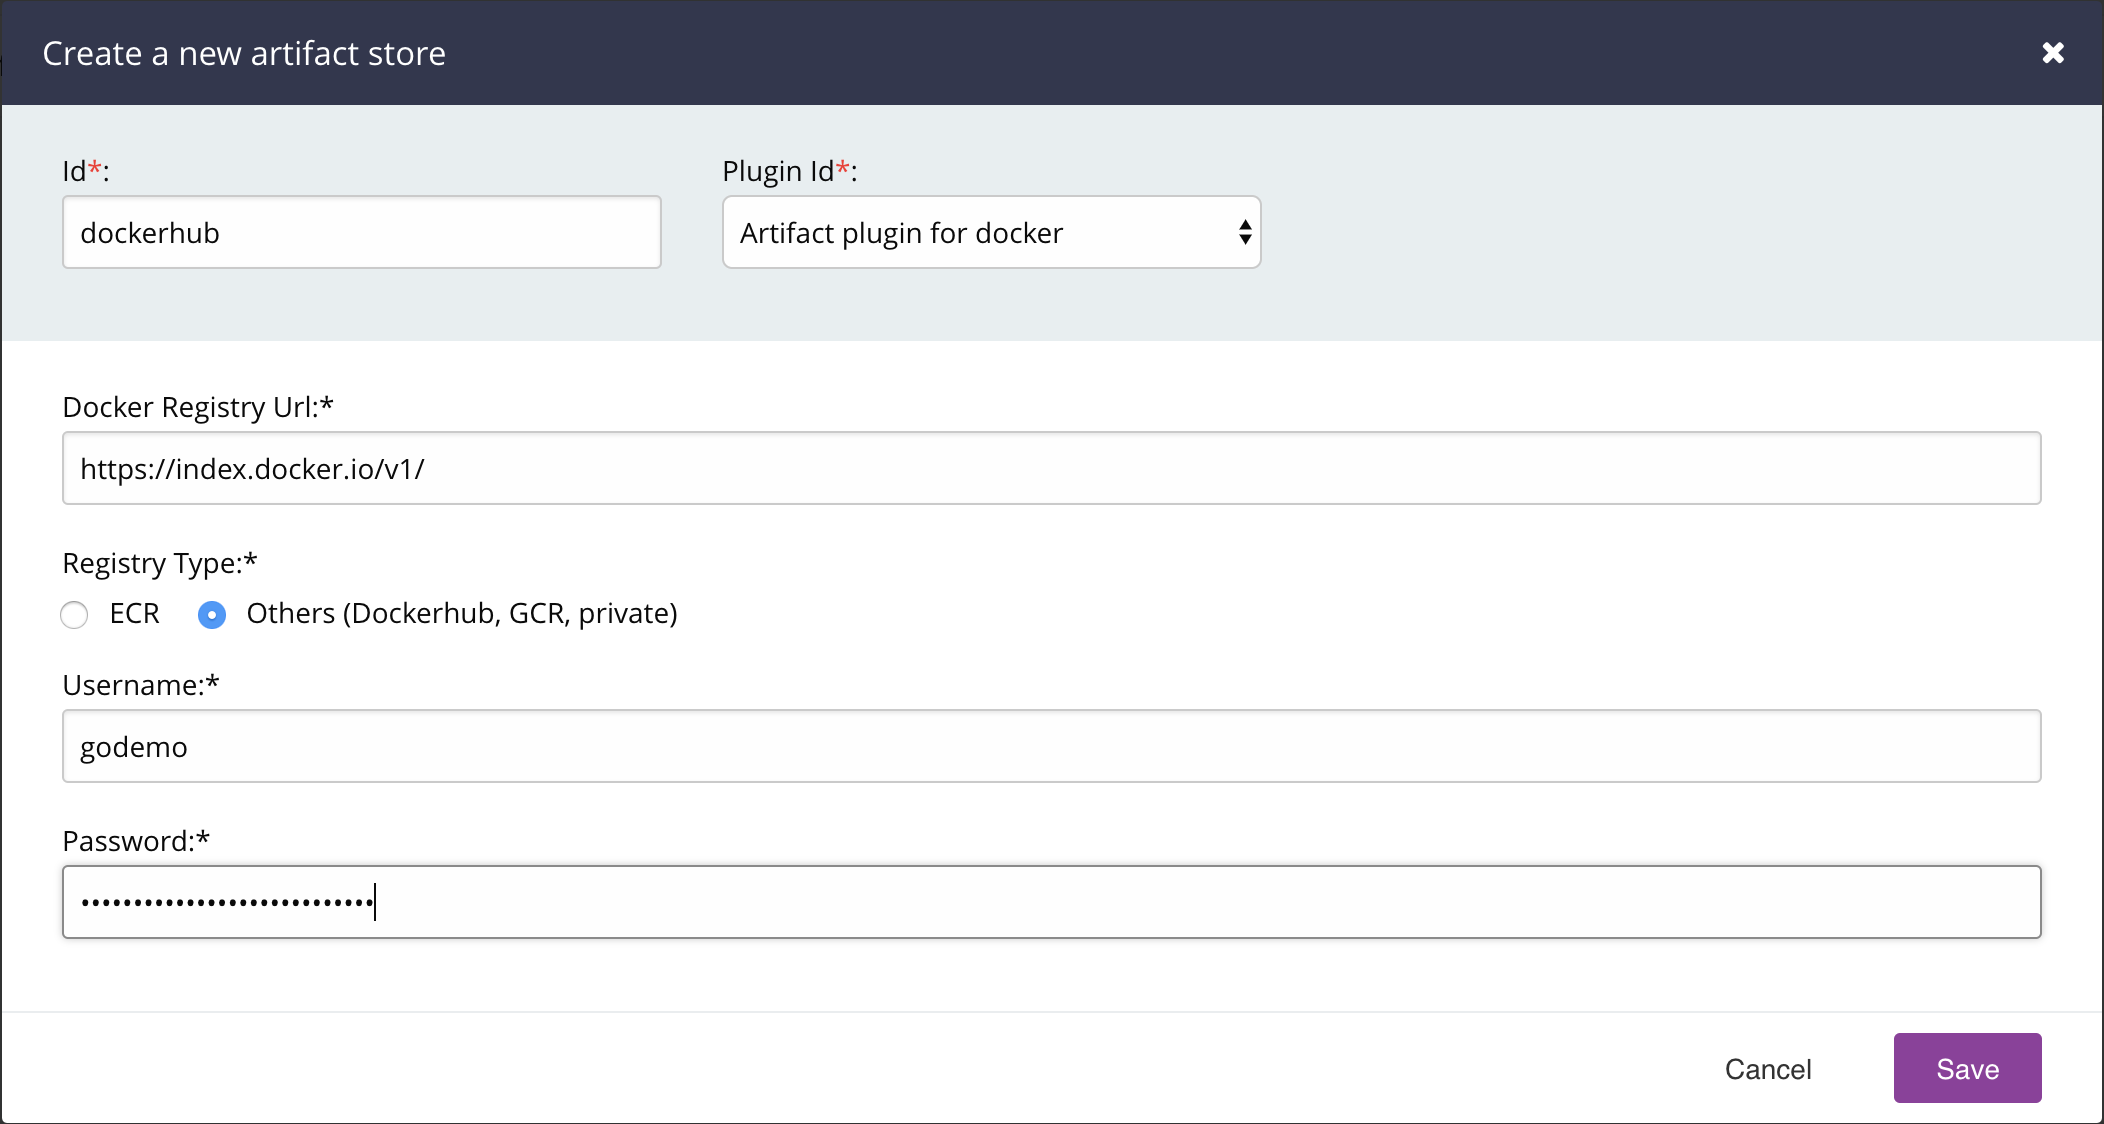
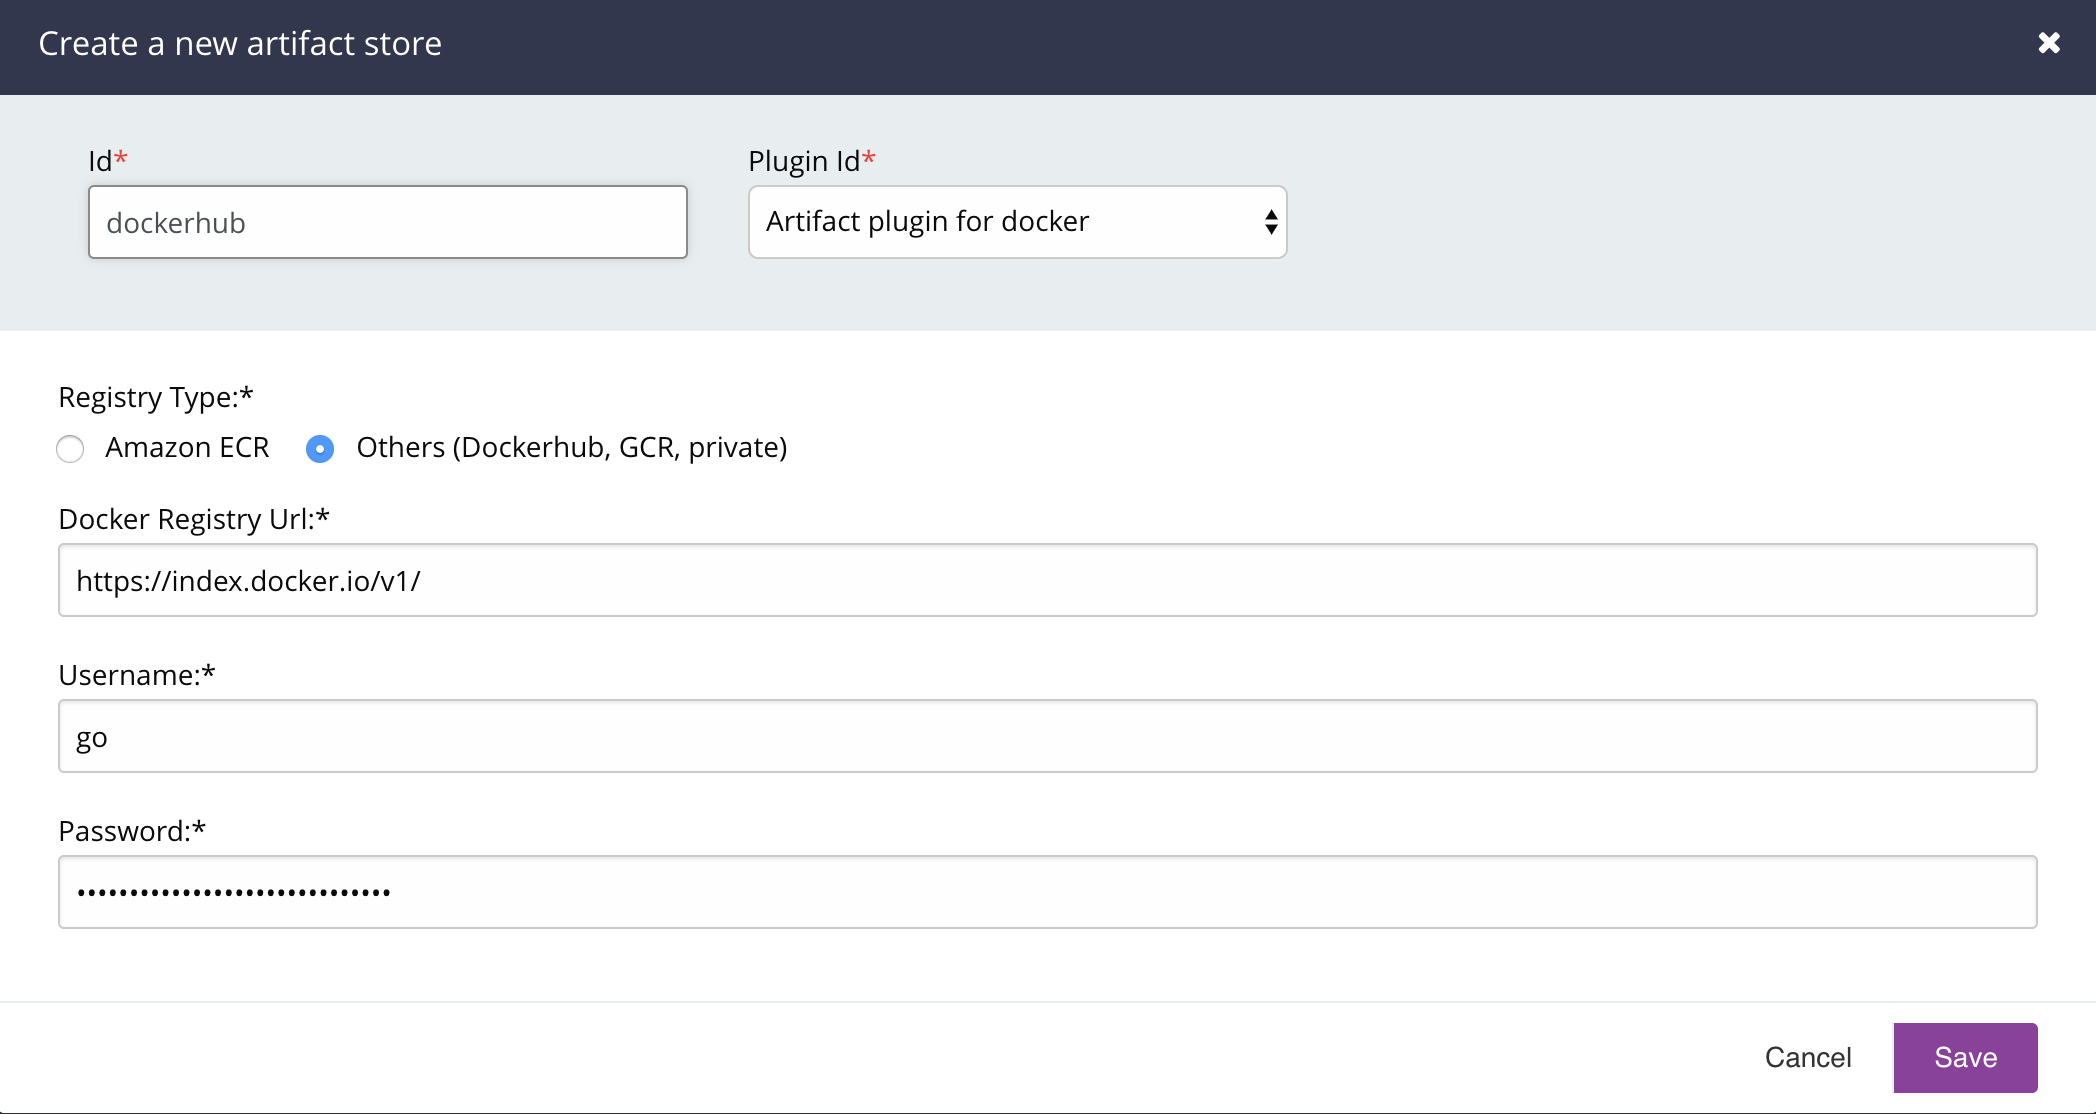
Introduce property RegistryID for amazon ecr.

diff --git a/src/main/resources/artifact-store.template.html b/src/main/resources/artifact-store.template.html
@@ -1,10 +1,4 @@
-<div class="form_item_block">
-    <label ng-class="{'is-invalid-label': GOINPUTNAME[RegistryURL].$error.server}">Docker Registry Url:<span class='asterix'>*</span></label>
-    <input ng-class="{'is-invalid-input': GOINPUTNAME[RegistryURL].$error.server}" type="text" ng-model="RegistryURL" ng-required="true" placeholder="value"/>
-    <span class="form_error form-error" ng-class="{'is-visible': GOINPUTNAME[RegistryURL].$error.server}" ng-show="GOINPUTNAME[RegistryURL].$error.server">{{GOINPUTNAME[RegistryURL].$error.server}}</span>
-</div>
-
-<div class="form_item_block">
+<div class="form_item_block" ng-init="RegistryType = 'ecr'">
     <label>Registry Type:<span class='asterix'>*</span></label>
     <input ng-class="{'is-invalid-input': GOINPUTNAME[RegistryType].$error.server}" type="radio" ng-model="RegistryType" value="ecr"/>
     <label ng-class="{'is-invalid-label': GOINPUTNAME[RegistryType].$error.server}">Amazon ECR</label>
@@ -15,6 +9,12 @@
 </div>
 
 <div ng-show="RegistryType == 'ecr'">
+    <div class="form_item_block">
+        <label ng-class="{'is-invalid-label': GOINPUTNAME[RegistryID].$error.server}">ECR Registry ID:<span class='asterix'>*</span></label>
+        <input ng-class="{'is-invalid-input': GOINPUTNAME[RegistryID].$error.server}" type="text" ng-model="RegistryID" ng-required="true" placeholder="value"/>
+        <span class="form_error form-error" ng-class="{'is-visible': GOINPUTNAME[RegistryID].$error.server}" ng-show="GOINPUTNAME[RegistryID].$error.server">{{GOINPUTNAME[RegistryID].$error.server}}</span>
+    </div>
+
     <div class="form_item_block">
         <label ng-class="{'is-invalid-label': GOINPUTNAME[AWSRegion].$error.server}">AWS Region:<span class='asterix'>*</span></label>
         <input ng-class="{'is-invalid-input': GOINPUTNAME[AWSRegion].$error.server}" type="text" ng-model="AWSRegion" ng-required="true" placeholder="value"/>
@@ -35,6 +35,13 @@
 </div>
 
 <div ng-show="RegistryType == 'other'">
+
+    <div class="form_item_block">
+        <label ng-class="{'is-invalid-label': GOINPUTNAME[RegistryURL].$error.server}">Docker Registry Url:<span class='asterix'>*</span></label>
+        <input ng-class="{'is-invalid-input': GOINPUTNAME[RegistryURL].$error.server}" type="text" ng-model="RegistryURL" ng-required="true" placeholder="value"/>
+        <span class="form_error form-error" ng-class="{'is-visible': GOINPUTNAME[RegistryURL].$error.server}" ng-show="GOINPUTNAME[RegistryURL].$error.server">{{GOINPUTNAME[RegistryURL].$error.server}}</span>
+    </div>
+
     <div class="form_item_block">
         <label ng-class="{'is-invalid-label': GOINPUTNAME[Username].$error.server}">Username:<span class='asterix'>*</span></label>
         <input ng-class="{'is-invalid-input': GOINPUTNAME[Username].$error.server}" type="text" ng-model="Username" ng-required="true" placeholder="value"/>

diff --git a/src/main/java/cd/go/artifact/docker/registry/model/ArtifactStoreConfig.java b/src/main/java/cd/go/artifact/docker/registry/model/ArtifactStoreConfig.java
@@ -26,14 +26,19 @@ import org.apache.commons.lang.StringUtils;
 
 public class ArtifactStoreConfig implements Validatable {
     @Expose
-    @SerializedName("RegistryURL")
-    @FieldMetadata(key = "RegistryURL", required = true)
-    private String registryUrl;
-
-    @Expose
     @SerializedName("RegistryType")
     @FieldMetadata(key = "RegistryType", required = true)
     private String registryType;
+
+    @Expose
+    @SerializedName("RegistryURL")
+    @FieldMetadata(key = "RegistryURL", required = false)
+    private String registryUrl;
+
+    @Expose
+    @SerializedName("RegistryID")
+    @FieldMetadata(key = "RegistryID", required = false)
+    private String registryId;
 
     @Expose
     @SerializedName("AWSAccessKeyId")
@@ -63,19 +68,20 @@ public class ArtifactStoreConfig implements Validatable {
     public ArtifactStoreConfig() {
     }
 
-    public ArtifactStoreConfig(String registryUrl, String registryType) {
-        this.registryUrl = registryUrl;
+    public ArtifactStoreConfig(String registryType) {
         this.registryType = registryType;
     }
 
     public ArtifactStoreConfig(String registryUrl, String registryType, String username, String password) {
-        this(registryUrl, registryType);
+        this(registryType);
+        this.registryUrl = registryUrl;
         this.username = username;
         this.password = password;
     }
 
-    public ArtifactStoreConfig(String registryUrl, String registryType, String awsAccessKeyId, String awsSecretAccessKey, String awsRegion) {
-        this(registryUrl, registryType);
+    public ArtifactStoreConfig(String registryId, String registryType, String awsAccessKeyId, String awsSecretAccessKey, String awsRegion) {
+        this(registryType);
+        this.registryId = registryId;
         this.awsAccessKeyId = awsAccessKeyId;
         this.awsSecretAccessKey = awsSecretAccessKey;
         this.awsRegion = awsRegion;
@@ -109,6 +115,10 @@ public class ArtifactStoreConfig implements Validatable {
         return awsRegion;
     }
 
+    public String getRegistryId() {
+        return registryId;
+    }
+
     public boolean isRegistryTypeEcr() {
         return "ecr".equals(registryType);
     }
@@ -126,6 +136,7 @@ public class ArtifactStoreConfig implements Validatable {
         if (awsAccessKeyId != null ? !awsAccessKeyId.equals(that.awsAccessKeyId) : that.awsAccessKeyId != null) return false;
         if (awsSecretAccessKey != null ? !awsSecretAccessKey.equals(that.awsSecretAccessKey) : that.awsSecretAccessKey != null) return false;
         if (awsRegion != null ? !awsRegion.equals(that.awsRegion) : that.awsRegion != null) return false;
+        if (registryId != null ? !registryId.equals(that.registryId) : that.registryId != null) return false;
         return password != null ? password.equals(that.password) : that.password == null;
     }
 
@@ -138,6 +149,7 @@ public class ArtifactStoreConfig implements Validatable {
         result = 31 * result + (awsAccessKeyId != null ? awsAccessKeyId.hashCode() : 0);
         result = 31 * result + (awsSecretAccessKey != null ? awsSecretAccessKey.hashCode() : 0);
         result = 31 * result + (awsRegion != null ? awsRegion.hashCode() : 0);
+        result = 31 * result + (registryId != null ? registryId.hashCode() : 0);
         return result;
     }
 
@@ -149,9 +161,6 @@ public class ArtifactStoreConfig implements Validatable {
     @Override
     public ValidationResult validate() {
         ValidationResult validationResult = new ValidationResult();
-        if (StringUtils.isBlank(registryUrl)) {
-            validationResult.addError("RegistryURL", "RegistryURL must not be blank.");
-        }
         if (StringUtils.isBlank(registryType)) {
             validationResult.addError("RegistryType", "RegistryType must not be blank.");
         }
@@ -165,10 +174,16 @@ public class ArtifactStoreConfig implements Validatable {
             if(StringUtils.isBlank(password)) {
                 validationResult.addError("Password", "Password must not be blank.");
             }
+            if (StringUtils.isBlank(registryUrl)) {
+                validationResult.addError("RegistryURL", "RegistryURL must not be blank.");
+            }
         }
         if ("ecr".equals(registryType)) {
             if(StringUtils.isBlank(awsRegion)) {
                 validationResult.addError("AWSRegion", "AWSRegion must not be blank.");
+            }
+            if (StringUtils.isBlank(registryId)) {
+                validationResult.addError("RegistryID", "RegistryID must not be blank.");
             }
         }
         return validationResult;

diff --git a/src/test/java/cd/go/artifact/docker/registry/executors/ValidateArtifactStoreConfigExecutorExecutorTest.java b/src/test/java/cd/go/artifact/docker/registry/executors/ValidateArtifactStoreConfigExecutorExecutorTest.java
@@ -46,10 +46,6 @@ public class ValidateArtifactStoreConfigExecutorExecutorTest {
 
         String expectedJSON = "[\n" +
                 "  {\n" +
-                "    \"key\": \"RegistryURL\",\n" +
-                "    \"message\": \"RegistryURL must not be blank.\"\n" +
-                "  },\n" +
-                "  {\n" +
                 "    \"key\": \"RegistryType\",\n" +
                 "    \"message\": \"RegistryType must not be blank.\"\n" +
                 "  }\n" +
@@ -75,7 +71,7 @@ public class ValidateArtifactStoreConfigExecutorExecutorTest {
     @Test
     public void shouldValidateProperDataIfTypeIsEcr() throws JSONException {
         String requestBody = new JSONObject()
-                .put("RegistryURL", "http://localhost/index")
+                .put("RegistryID", "12345")
                 .put("RegistryType", "ecr")
                 .put("AWSAccessKeyId", "chuck-norris-aws-access-key-id")
                 .put("AWSSecretAccessKey", "chuck-norris-aws-secret-access-key")
@@ -131,7 +127,6 @@ public class ValidateArtifactStoreConfigExecutorExecutorTest {
     @Test
     public void shouldValidatePresenceOfAwsRegionIfTypeIsEcr() throws JSONException {
         String requestBody = new JSONObject()
-                .put("RegistryURL", "http://localhost/index")
                 .put("RegistryType", "ecr")
                 .toString();
         when(request.requestBody()).thenReturn(requestBody);
@@ -141,6 +136,10 @@ public class ValidateArtifactStoreConfigExecutorExecutorTest {
                 "  {\n" +
                 "    \"key\": \"AWSRegion\",\n" +
                 "    \"message\": \"AWSRegion must not be blank.\"\n" +
+                "  },\n" +
+                "  {\n" +
+                "    \"key\": \"RegistryID\",\n" +
+                "    \"message\": \"RegistryID must not be blank.\"\n" +
                 "  }\n" +
                 "]";
         JSONAssert.assertEquals(expectedJSON, response.responseBody(), JSONCompareMode.NON_EXTENSIBLE);

diff --git a/src/main/java/cd/go/artifact/docker/registry/AWSTokenRequestGenerator.java b/src/main/java/cd/go/artifact/docker/registry/AWSTokenRequestGenerator.java
@@ -32,8 +32,8 @@ import java.util.Base64;
 
 import static org.apache.commons.lang.StringUtils.isNotBlank;
 
-public class AWSTokenRequestGenerator {
-    public static final Logger LOG = Logger.getLoggerFor(AWSTokenRequestGenerator.class);
+class AWSTokenRequestGenerator {
+    private static final Logger LOG = Logger.getLoggerFor(AWSTokenRequestGenerator.class);
     private AwsSyncClientBuilder<AmazonECRClientBuilder, AmazonECR> builder;
 
     AWSTokenRequestGenerator() {
@@ -51,7 +51,7 @@ public class AWSTokenRequestGenerator {
     String[] getUsernameAndPasswordFromECRToken(ArtifactStoreConfig artifactStoreConfig) {
         builder.setRegion(artifactStoreConfig.getAwsRegion());
         setCredentialsProvider(artifactStoreConfig);
-        GetAuthorizationTokenResult authorizationTokenResult = builder.build().getAuthorizationToken(new GetAuthorizationTokenRequest().withRegistryIds(getAwsAccountIdFromURL(artifactStoreConfig.getRegistryUrl())));
+        GetAuthorizationTokenResult authorizationTokenResult = builder.build().getAuthorizationToken(new GetAuthorizationTokenRequest().withRegistryIds(artifactStoreConfig.getRegistryId()));
         String authorizationToken = authorizationTokenResult.getAuthorizationData().get(0).getAuthorizationToken();
         return new String(Base64.getDecoder().decode(authorizationToken)).split(":");
     }
@@ -66,10 +66,6 @@ public class AWSTokenRequestGenerator {
             builder.setCredentials(new DefaultAWSCredentialsProviderChain());
             LOG.debug("Setting the default aws credentials chain provider. This happens if the specified artifact store does not have aws keys configured. The default chain checks for environment variables, system properties, credentials profile, instance profile.");
         }
-    }
-
-    private String getAwsAccountIdFromURL(String registryUrl) {
-        return registryUrl.split("//")[1].split("\\.")[0];
     }
 
 }

diff --git a/src/test/java/cd/go/artifact/docker/registry/executors/GetArtifactStoreConfigMetadataExecutorTest.java b/src/test/java/cd/go/artifact/docker/registry/executors/GetArtifactStoreConfigMetadataExecutorTest.java
@@ -30,16 +30,23 @@ public class GetArtifactStoreConfigMetadataExecutorTest {
 
         final String expectedJSON = "[\n" +
                 "  {\n" +
-                "    \"key\": \"RegistryURL\",\n" +
+                "    \"key\": \"RegistryType\",\n" +
                 "    \"metadata\": {\n" +
                 "      \"required\": true,\n" +
                 "      \"secure\": false\n" +
                 "    }\n" +
                 "  },\n" +
                 "  {\n" +
-                "    \"key\": \"RegistryType\",\n" +
+                "    \"key\": \"RegistryURL\",\n" +
                 "    \"metadata\": {\n" +
-                "      \"required\": true,\n" +
+                "      \"required\": false,\n" +
+                "      \"secure\": false\n" +
+                "    }\n" +
+                "  },\n" +
+                "  {\n" +
+                "    \"key\": \"RegistryID\",\n" +
+                "    \"metadata\": {\n" +
+                "      \"required\": false,\n" +
                 "      \"secure\": false\n" +
                 "    }\n" +
                 "  },\n" +

diff --git a/src/test/java/cd/go/artifact/docker/registry/RegistryAuthSupplierChainTest.java b/src/test/java/cd/go/artifact/docker/registry/RegistryAuthSupplierChainTest.java
@@ -76,7 +76,7 @@ public class RegistryAuthSupplierChainTest {
 
     public class MockAwsECRClientBuilder extends AwsSyncClientBuilder<AmazonECRClientBuilder, AmazonECR> {
 
-        protected MockAwsECRClientBuilder(ClientConfigurationFactory clientConfigFactory) {
+        MockAwsECRClientBuilder(ClientConfigurationFactory clientConfigFactory) {
             super(clientConfigFactory);
         }
 

diff --git a/README.md b/README.md
@@ -46,16 +46,16 @@ There are three levels of configuration needed in order for publishing and fetch
 
 | Properties                     | Description                                                              | Mandatory                |
 | -------------------------------| ------------------------------------------------------------------------ | ------------------------ |
-| `RegistryURL`                  | Registry to push and pull images                                         | `yes`                    |
 | `RegistryType`                 | Can be either `ecr` or `other`                                           | `yes`                    |
 
 If `RegistryType` is `ecr`:
 
 | Properties                     | Description                                                              | Mandatory                |
 | -------------------------------| ------------------------------------------------------------------------ | ------------------------ |
+| `RegistryID`                   | ECR registry id to push and pull images                                  | `yes`                    |
+| `AWSRegion`                    | The aws region key to execute ecr get authorization token request        | `yes`                    |
 | `AWSAccessKeyId`               | The aws access key id to execute ecr get authorization token request     | `no`                    |
 | `AWSSecretAccessKey`           | The aws secret access key to execute ecr get authorization token request | `no`                    |
-| `AWSRegion`                    | The aws region key to execute ecr get authorization token request        | `yes`                    |
 
 Note: If the AWSAccessKeyId and AWSSecretAccessKey are not provided, the following configurations are checked:
 
@@ -69,6 +69,7 @@ If `RegistryType` is `other`
 
 | Properties                     | Description                                                              | Mandatory                |
 | -------------------------------| ------------------------------------------------------------------------ | ------------------------ |
+| `RegistryURL`                  | Registry to push and pull images                                         | `yes`                    |
 | `Username`                     | Username to authenticate with the docker registry.                       | `yes`                    |
 | `Password`                     | Password to authenticate with the docker registry.                       | `yes`                    |
 
